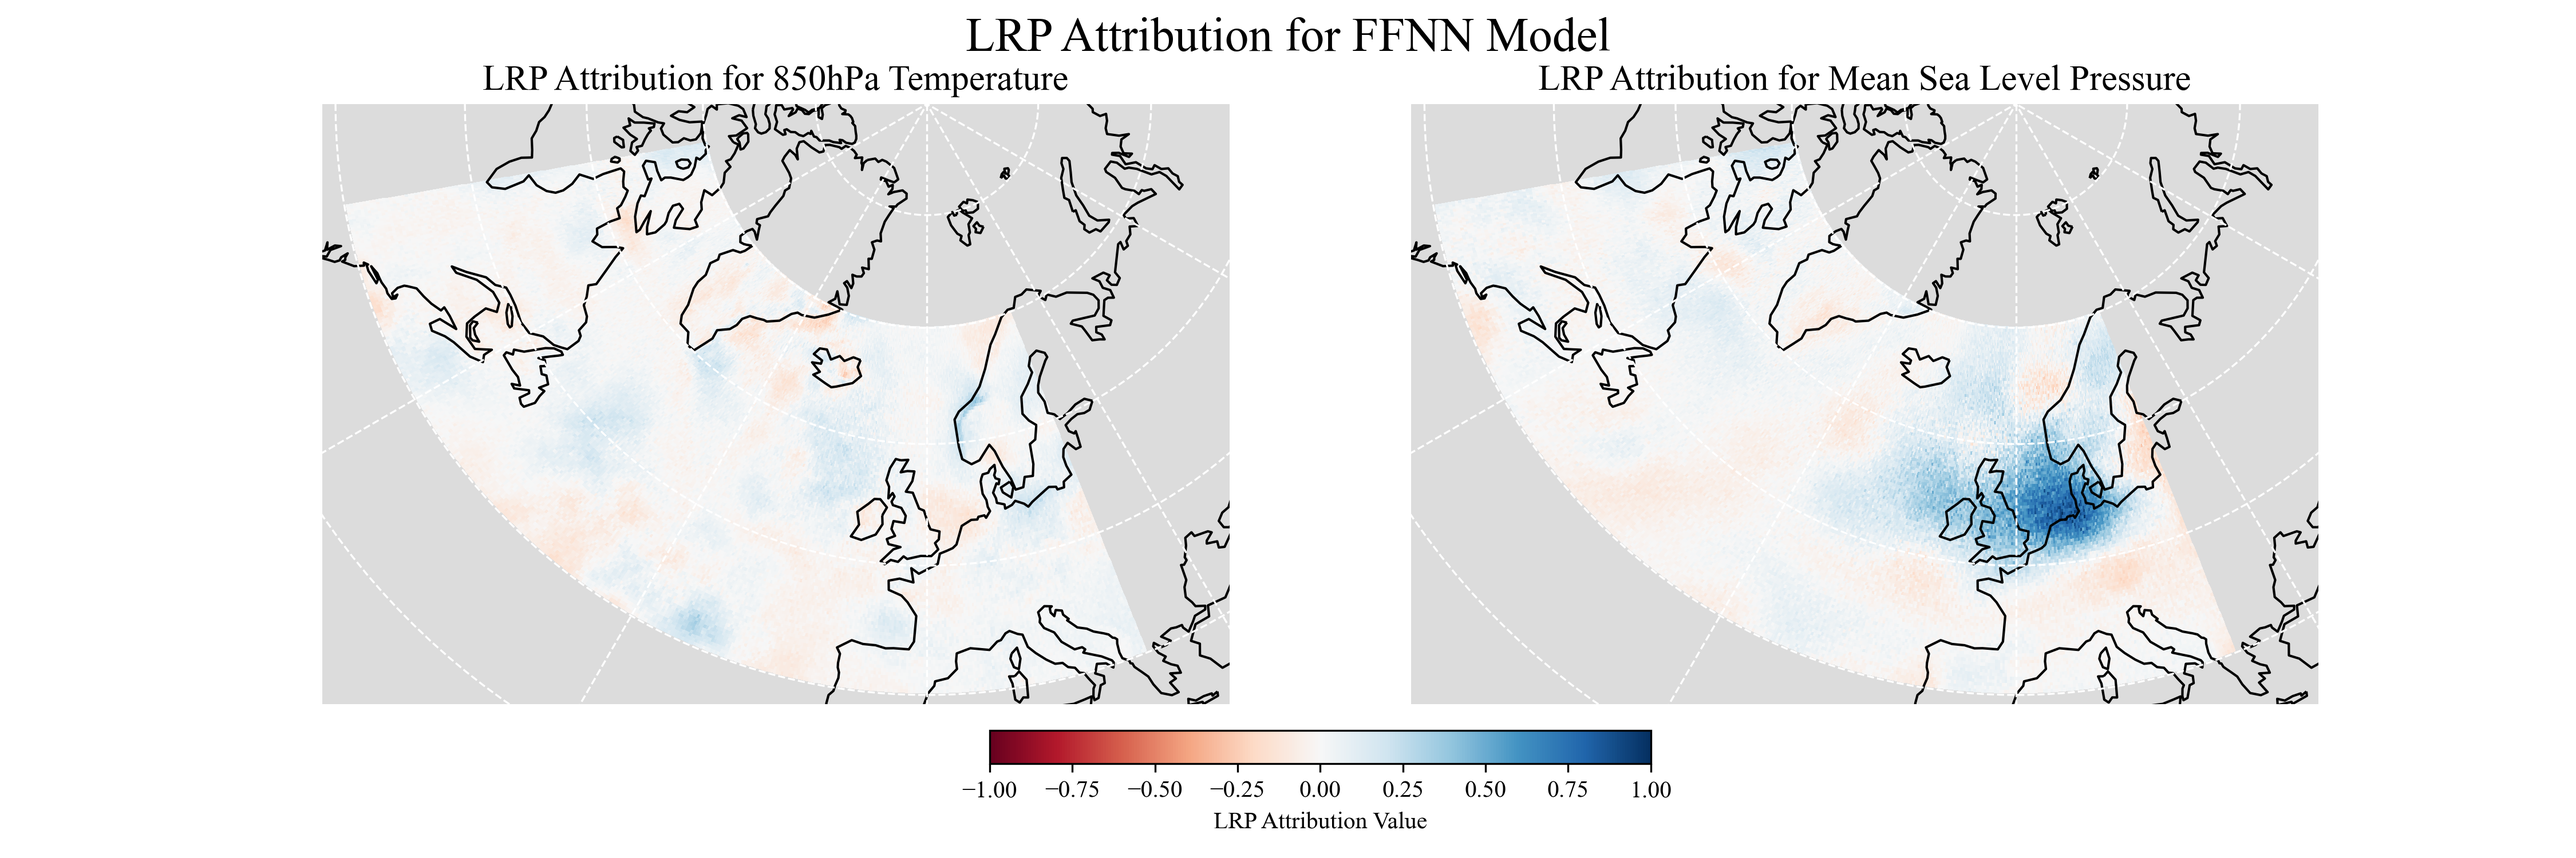
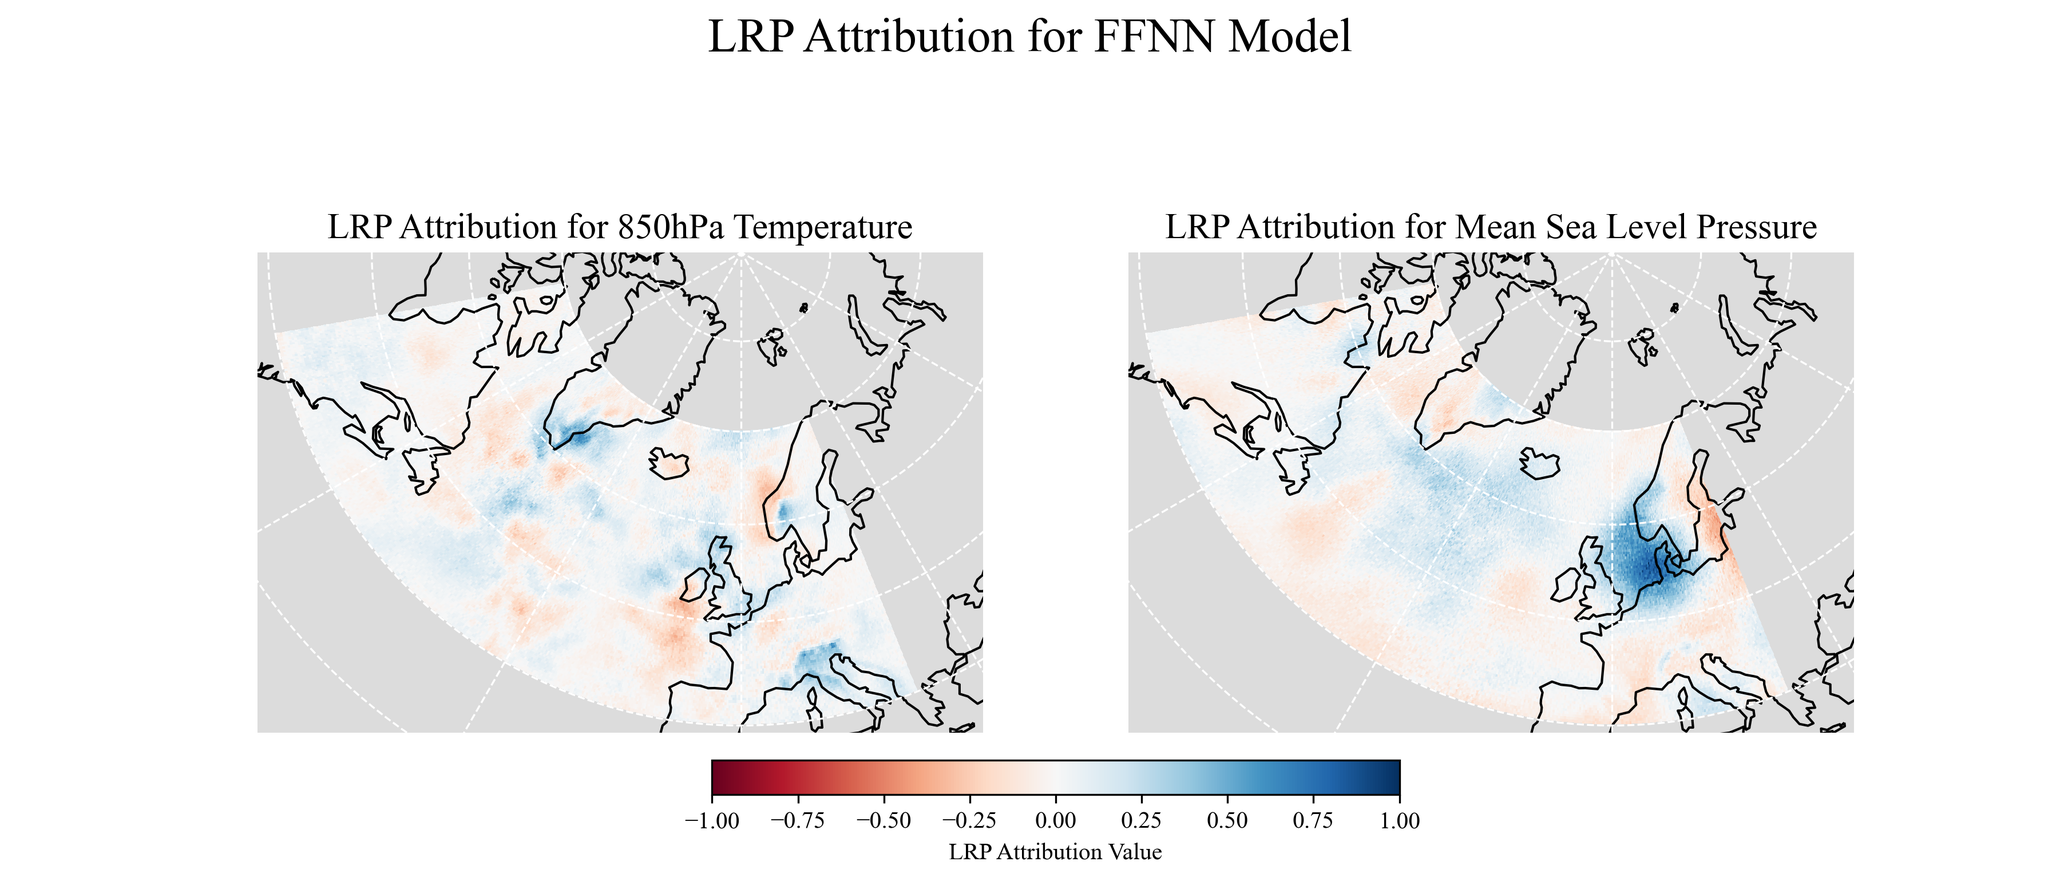
updated plot functions

Changed region(s): [[0.1244, 0.0, 0.9022, 0.9813], [0.28, 0.7667, 0.3111, 0.7973]]

diff --git a/jeppe/hpc_test/model.py b/jeppe/hpc_test/model.py
@@ -472,15 +472,14 @@ class Model_FFN:
          return study.best_trial
      
      def plot_model_on_test(self, ax_title= 'Model Performance on Test Data', save_name = None):
-
-        fig, ax = plt.subplots(nrows=2, ncols=1, figsize=(10, 5))
-
         rc = {
             "font.family": "serif",
             "mathtext.fontset": "stix"
         }
         plt.rcParams.update(rc)
         plt.rcParams["font.serif"] = ["Times New Roman"] + plt.rcParams["font.serif"]
+
+        fig, ax = plt.subplots(nrows=2, ncols=1, figsize=(10, 5))
 
         ax[0].plot(self.y_test.numpy(), label='True Values', color='teal')
         ax[0].plot(self.model(self.X_test).detach().numpy(), label='Predicted Values', color='orange')   
@@ -563,7 +562,7 @@ class Model_FFN:
 
         fig, axs = plt.subplots(ncols=2, 
                                nrows=1, 
-                               figsize=(15,5), 
+                               figsize=(12,5), 
                                subplot_kw={'projection': ccrs.NorthPolarStereo() },
                                dpi = 300
         )
